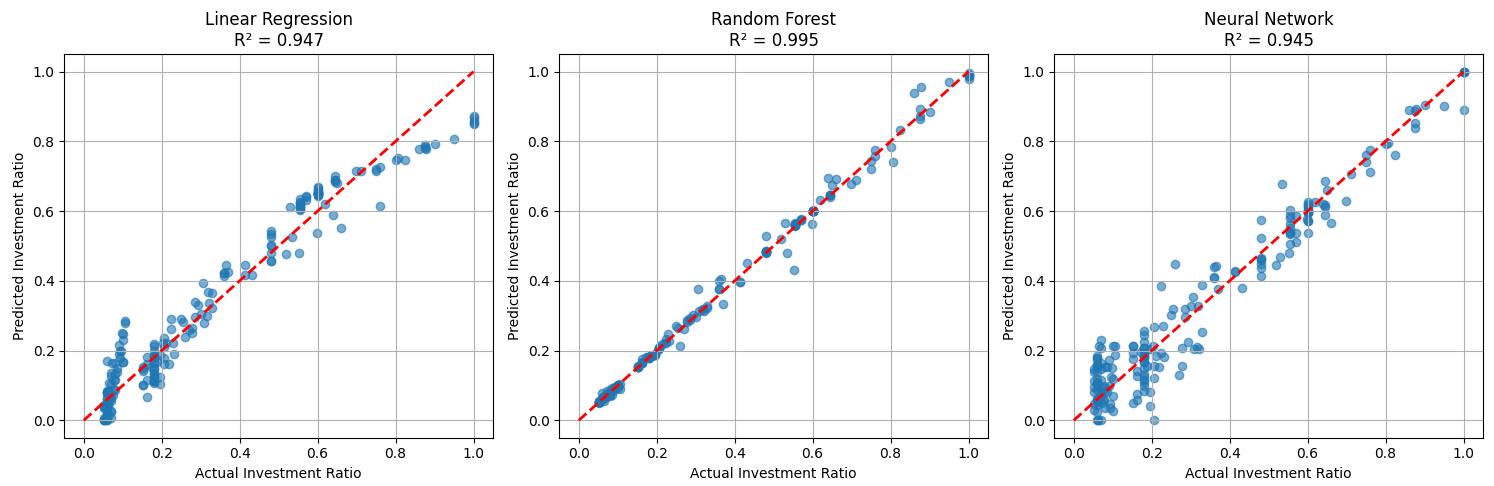
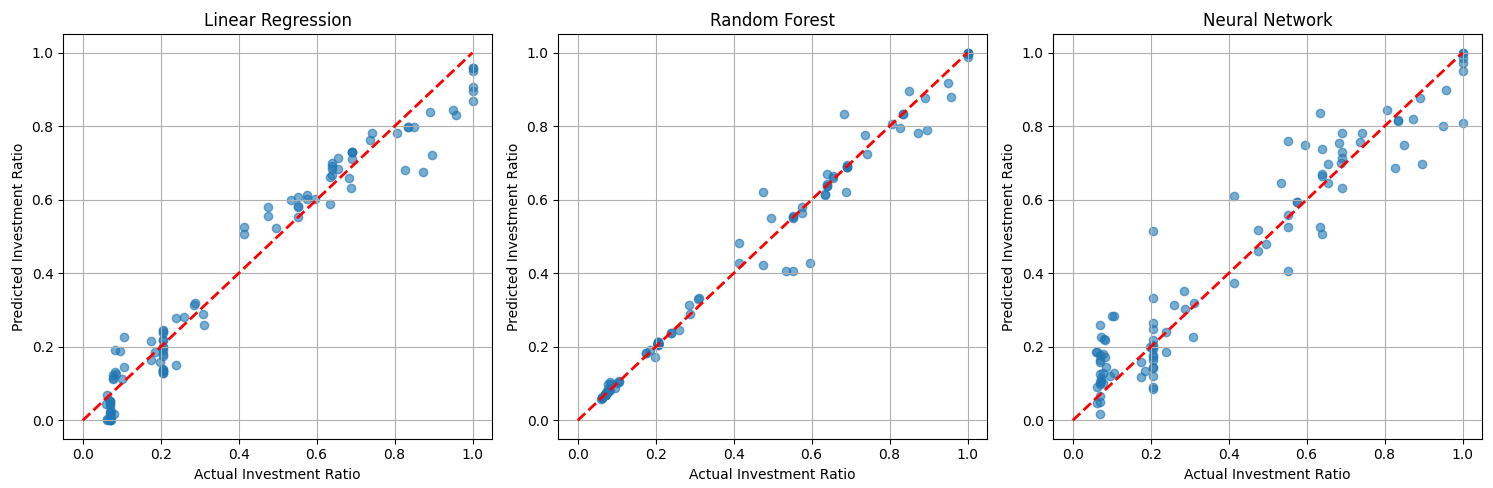
Updating README with plot explanation

Changed region(s): [[0.0, 0.0309, 1.0, 0.9877], [0.0924, 0.4012, 0.1232, 0.463], [0.8011, 0.4012, 0.8319, 0.4321]]

diff --git a/test/models_test.py b/test/models_test.py
@@ -312,7 +312,7 @@ def test_data_generation():
         print("  ✓ Data generator creation successful")
         
         # Test small dataset generation
-        test_size = min(100, DATASET_SIZE) 
+        test_size = min(500, DATASET_SIZE) 
         raw_data = generator.generate_complete_dataset(test_size)
         print(f"  ✓ Dataset generation successful ({raw_data.shape[0]} samples)")
         

diff --git a/README.md b/README.md
@@ -1,13 +1,27 @@
 # financial-advisor-ml
-ML project to estimate best resource allocation between debt payments and investments based on S&amp;P500 P/E ratios, VIX ratios and Treasury bond yields.
+ML project to estimate best resource allocation between debt payments and investments based on S&P500 P/E ratios, VIX ratios and Treasury bond yields.
 
 ## Usecase
-The application's aim is to help in the decision making on wether or not to pay debt quickly or to allocate funds to index investments. This application maximises the financial potential, and its up to the user to evaluate the result based on personal life circumstances and goals. 
+The application's aim is to help in the decision making on whether or not to pay debt quickly or to allocate funds to index investments. This application maximises the financial potential, and its up to the user to evaluate the result based on personal life circumstances and goals. 
 
-## Data Analysis
-The test folder contains testing of various model types to find the best model for the job. Here is an example:
+## Model Performance Analysis
+The project implements a SOLID-principle architecture with three ML models for investment ratio prediction:
+
+**Figure 1: Model Prediction Accuracy**
 ![Alt text](data/ML1.png "Model Type Accuracy Test")
+Comparison of predicted vs actual investment ratios across all three models. Random Forest achieves the highest accuracy (R² = 0.949), followed by Linear Regression (R² = 0.930) and Neural Network (R² = 0.716). All models show strong correlation with actual values, with predictions properly bounded between 0-1.
+
+**Figure 2: Feature Importance Analysis**
+![Alt text](data/ML2.png "Feature Importance")
+Random Forest feature importance revealing that `highest debt rate` is the dominant factor in investment decisions, followed by `credit card rate`, `age`, and `years to retirement`. This confirms the financial logic that high-interest debt should be prioritized before investing.
+
+**Figure 3: Neural Network Training Convergence**
+![Alt text](data/ML3.png "Neural Network Training Loss")
+Training loss curve showing the neural network converged after 94 iterations with early stopping, achieving a final loss of 0.0010. The model demonstrates stable learning without overfitting during the training process.
+
+## Architecture
+Built using SOLID principles with modular services for data generation, feature engineering, model training, and evaluation. Supports easy extension with new models and comprehensive testing framework.
 
 ## File Structure
 File structure can be listed in terminal using
-Get-ChildItem -Recurse -Name | Where-Object { $_ -match '\.(py|yaml|yml)$' -and $_ -notmatch '^venv\\' } | Sort-Object
+Get-ChildItem -Recurse -Name | Where-Object { $_ -match '\.(py|yaml|yml)$' -and $_ -notmatch '^venv\\' } | Sort-Object 
